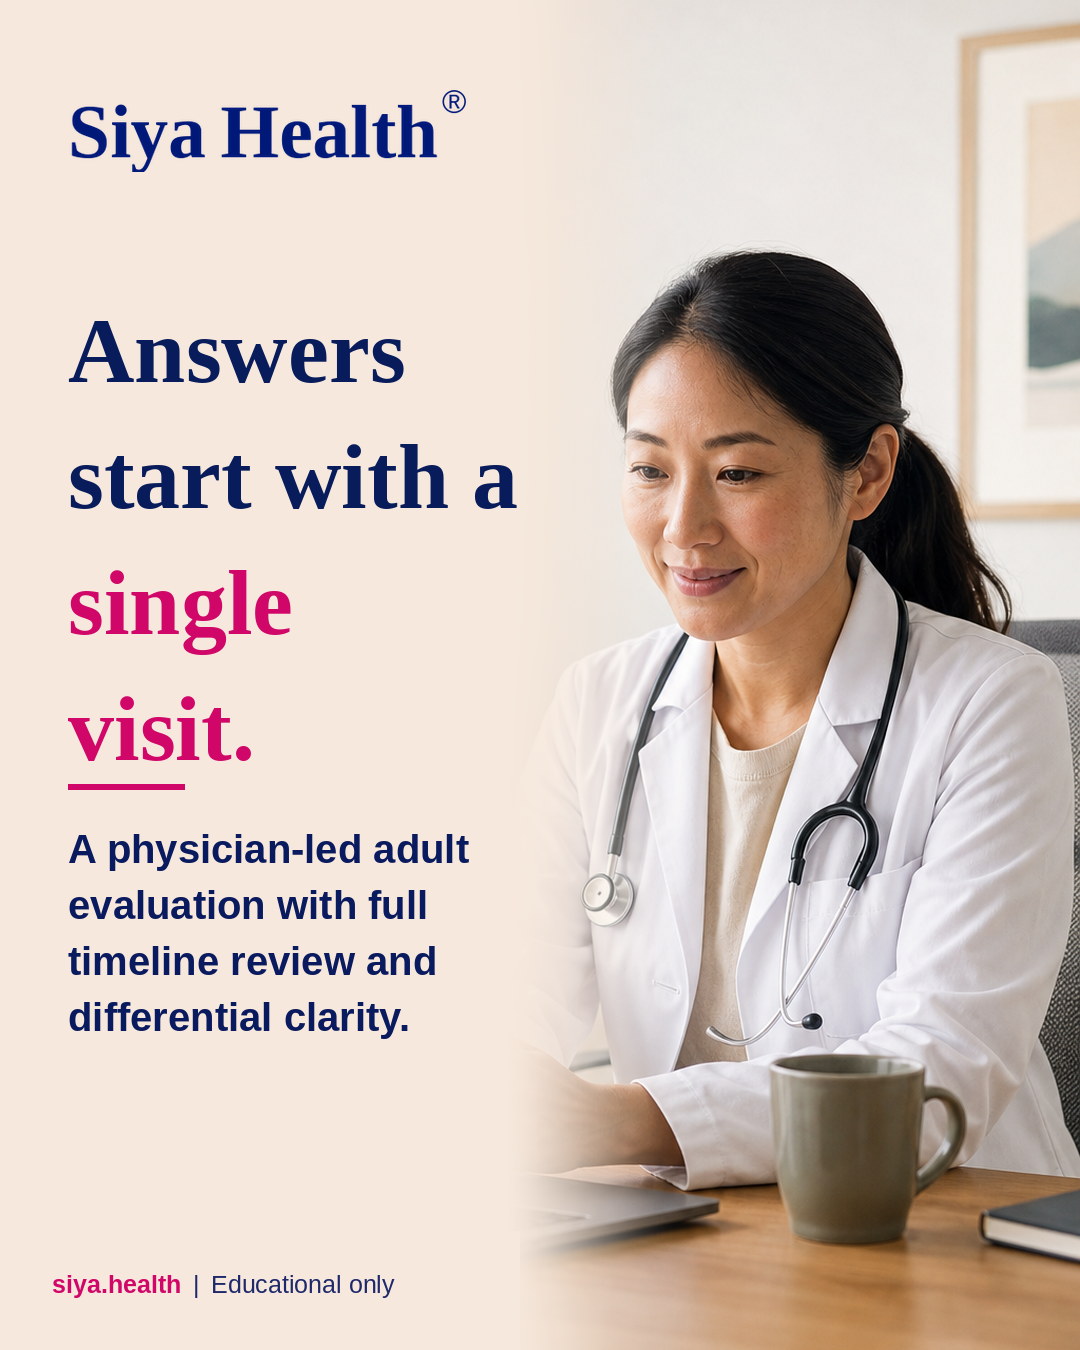
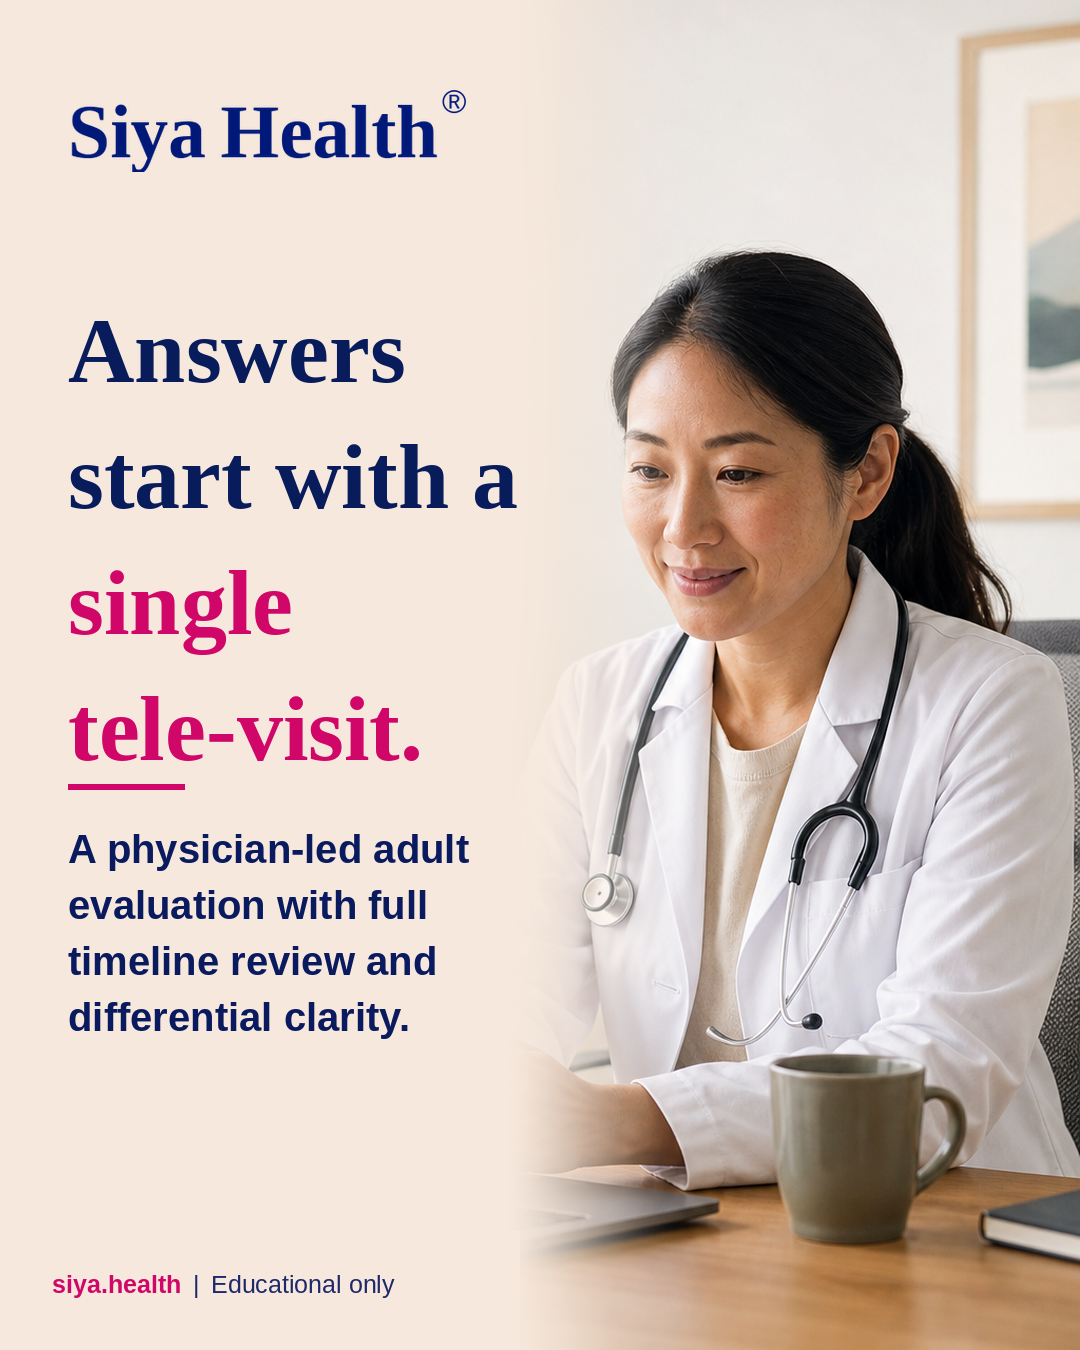
fix(brand): update Slide 5 headline to 'tele-visit' on Concept 1 carousel

Changed region(s): [[0.0611, 0.4978, 0.3972, 0.56]]

diff --git a/apps/siya-health/brand/editorial-packs/AD-K-01-bandwidth-cliff/README.md b/apps/siya-health/brand/editorial-packs/AD-K-01-bandwidth-cliff/README.md
@@ -44,7 +44,7 @@
 - **File:** `ready-to-post/slide-04.png`
 
 ### Slide 5: The Next Step (Physician-Led Care)
-- **Headline:** Answers / start with a / single / visit.
-- **Accent:** `single` / `visit.`
+- **Headline:** Answers / start with a / single / tele-visit.
+- **Accent:** `single` / `tele-visit.`
 - **Recognition:** A physician-led adult / evaluation with full / timeline review and / differential clarity.
 - **File:** `ready-to-post/slide-05.png`
